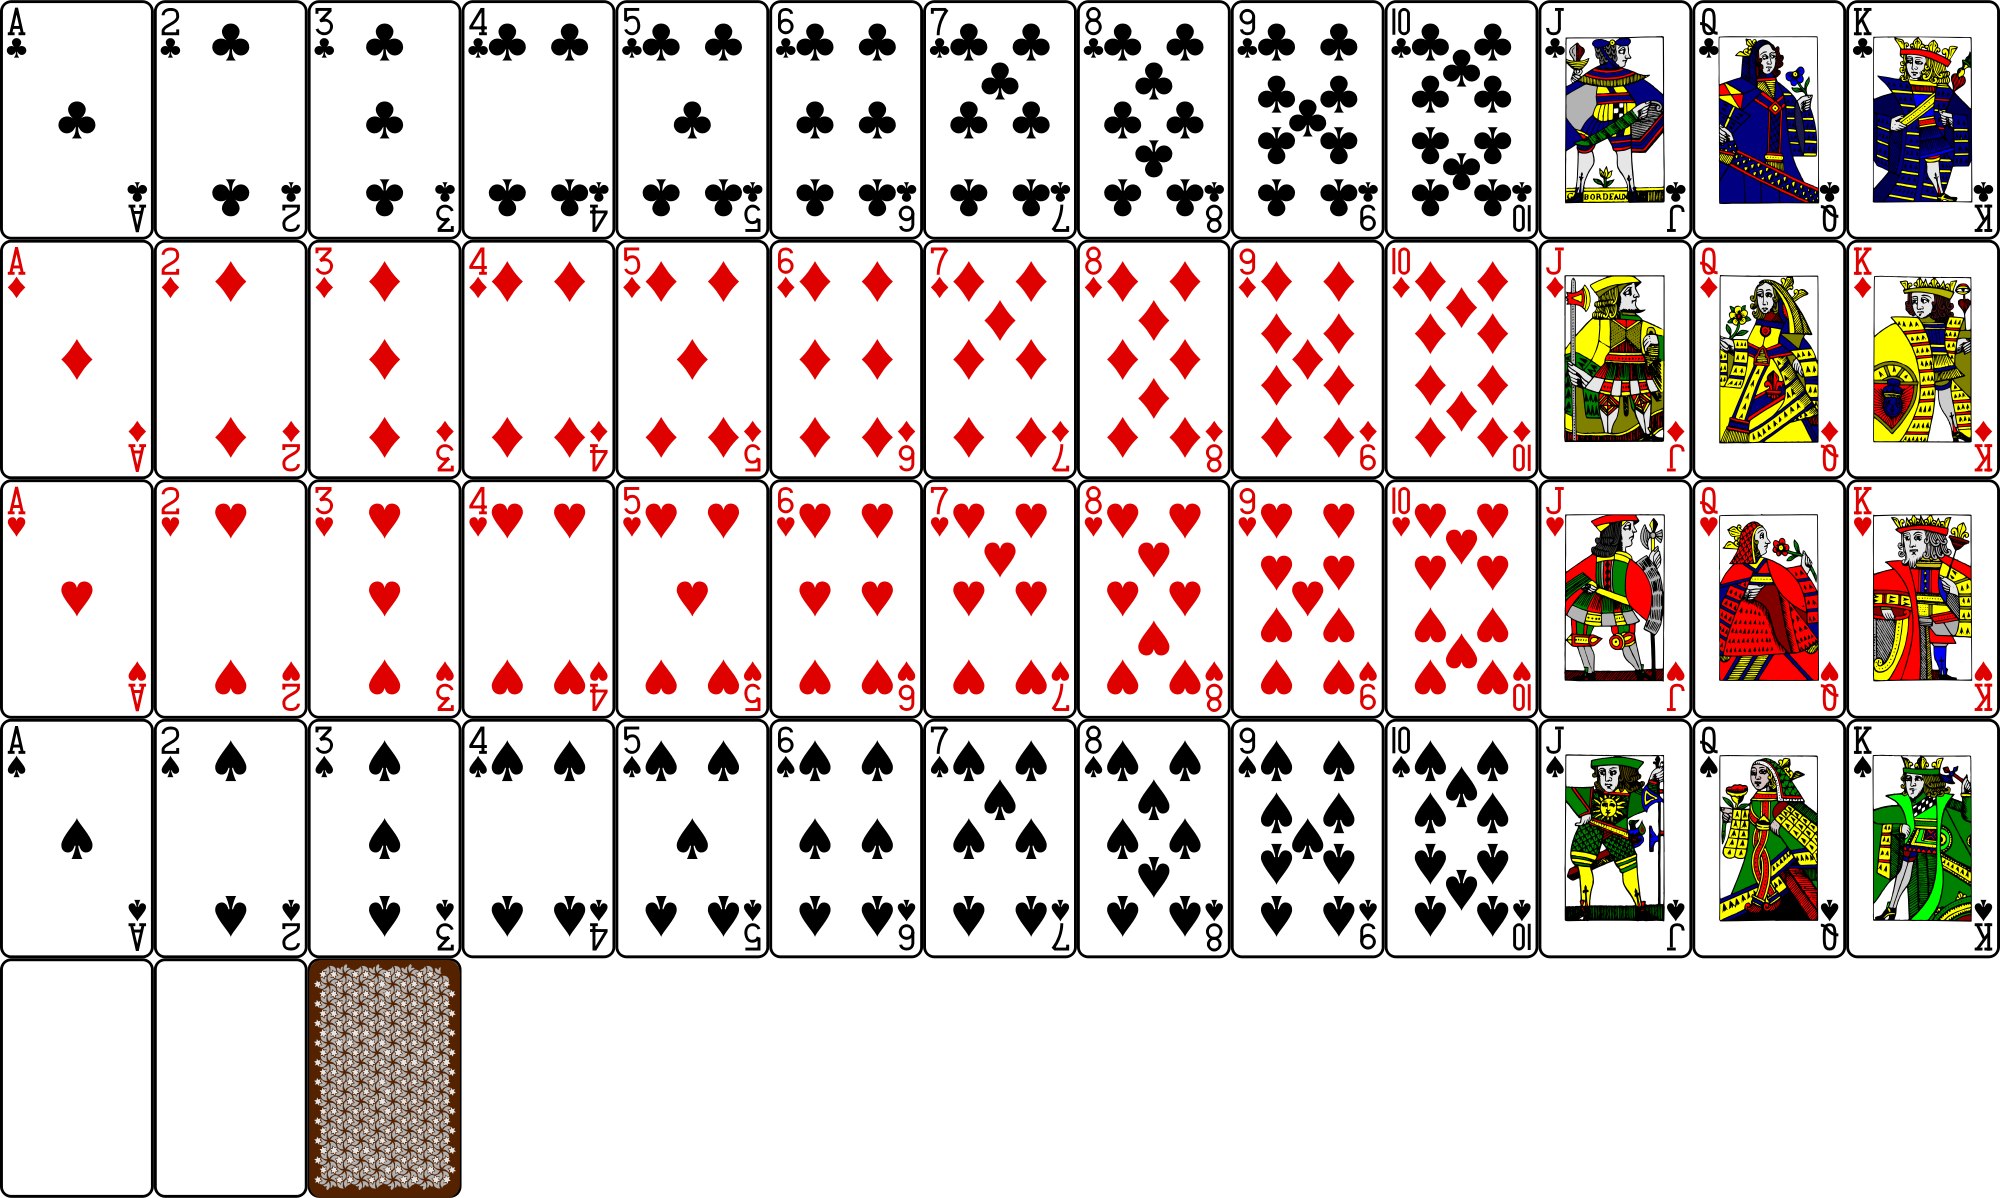
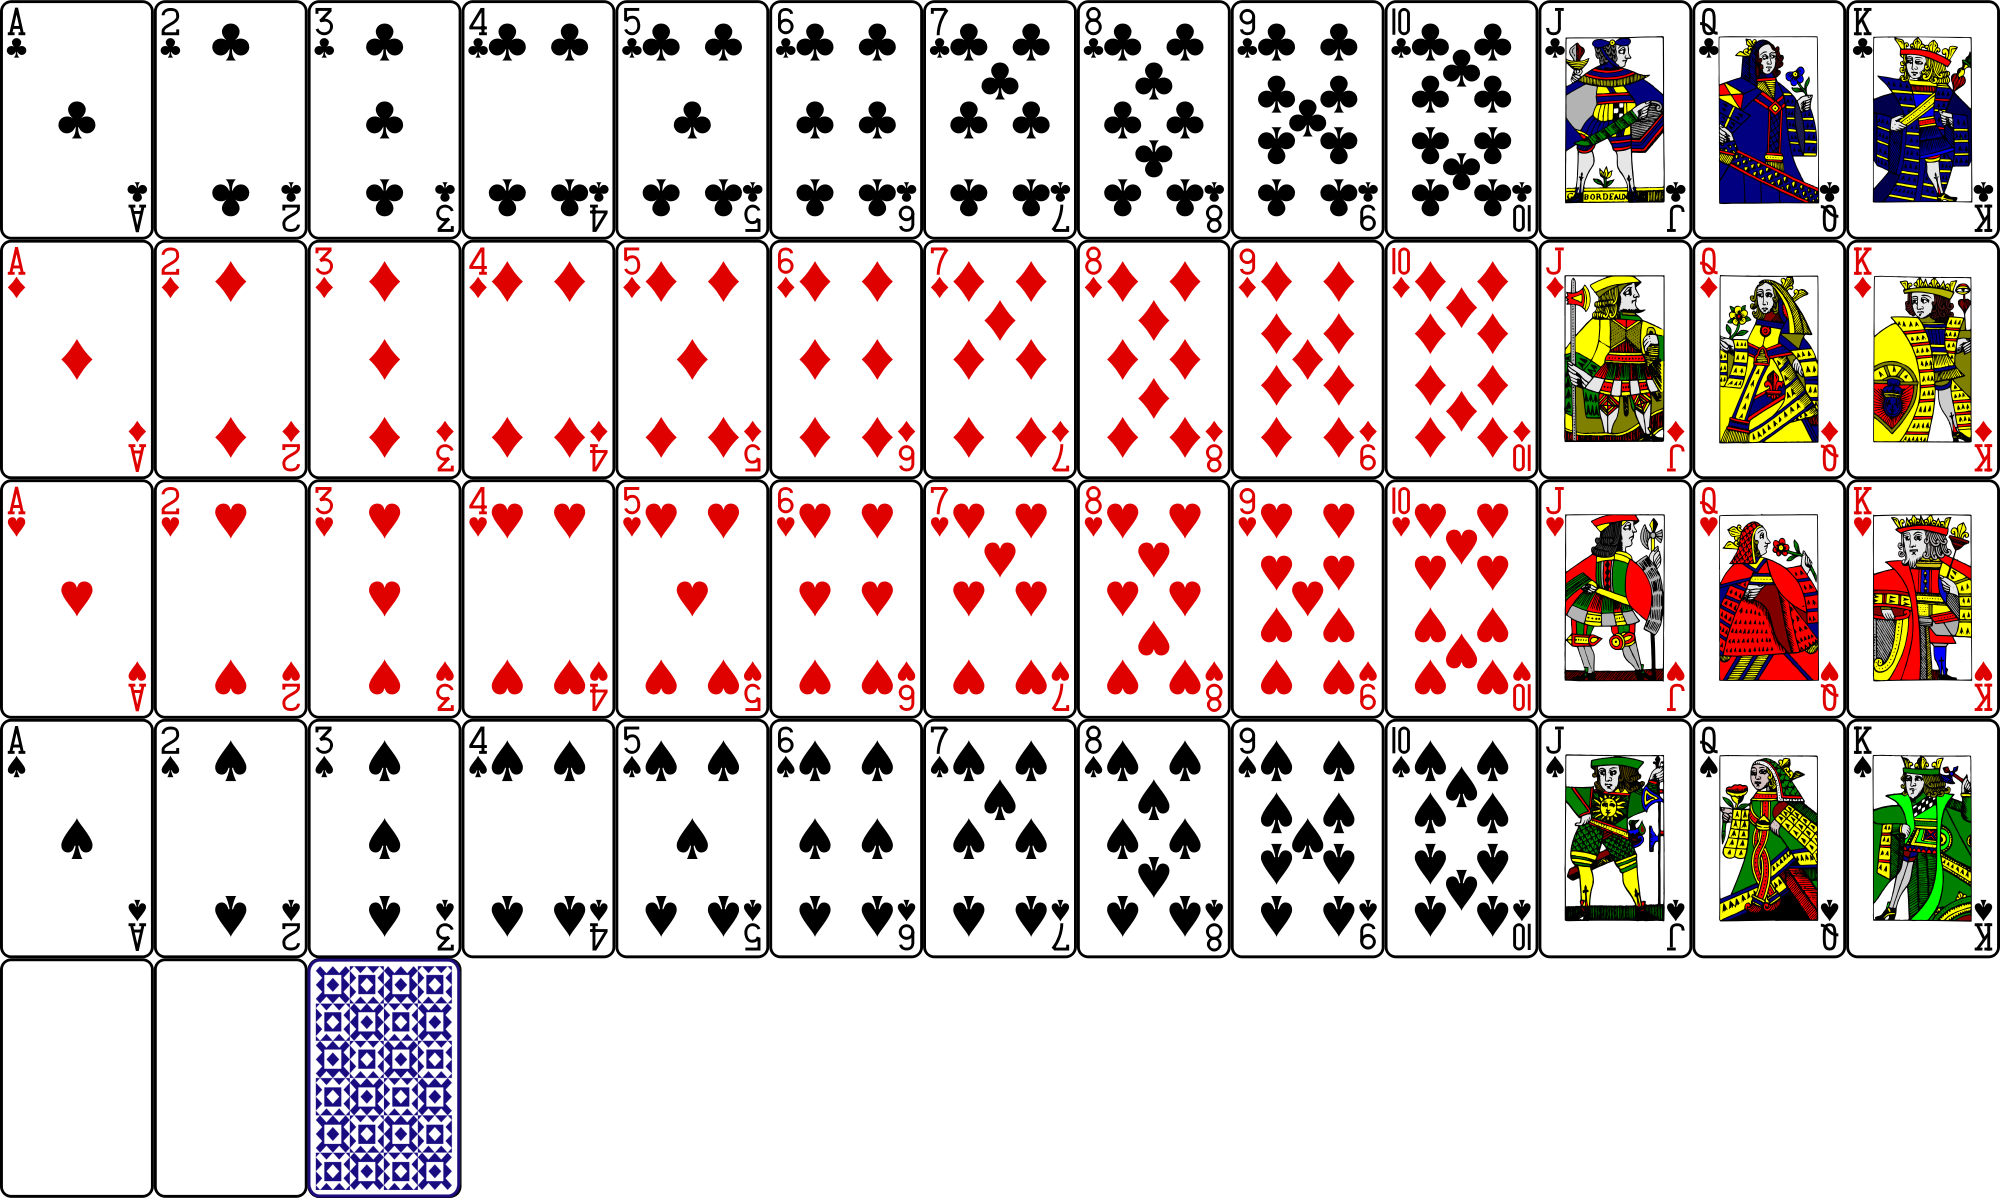
Make Cards smaller

Changed region(s): [[0.155, 0.7721, 0.248, 1.0]]

diff --git a/SheddingCardGames/SheddingCardGame.UI/Config.cs b/SheddingCardGames/SheddingCardGame.UI/Config.cs
@@ -6,8 +6,10 @@ namespace SheddingCardGame.UI
     {
         public int ScreenHeight { get; set; } = 800;
         public int ScreenWidth { get; set; } = 1200;
-        public int CardHeight { get; set; } = 240;
-        public int CardWidth { get; set; } = 154;
+        public int SpriteSheetCardWidth { get; set; } = 154;
+        public int SpriteSheetCardHeight { get; set; } = 240;
+        public int CardWidth { get; set; } = 123;
+        public int CardHeight { get; set; } = 192;
 
         public int LabelHeight { get; set; } = 35;
 
@@ -24,13 +26,15 @@ namespace SheddingCardGame.UI
 
         public Point ScreenCentre => new Point(ScreenWidth / 2, ScreenHeight / 2);
 
-        public Rectangle TopPlayerInfoSection => new Rectangle(0, 10, ScreenWidth, LabelHeight);
-        public Rectangle TopPlayerHandSection => new Rectangle(0, TopPlayerInfoSection.Bottom, ScreenWidth, CardHeight);
-        public Rectangle TableSection => new Rectangle(0, TopPlayerHandSection.Bottom, ScreenWidth, CardHeight);
-        public Rectangle BottomPlayerHandSection => new Rectangle(0, TableSection.Bottom, ScreenWidth, CardHeight);
-        public Rectangle BottomPlayerInfoSection => new Rectangle(0, BottomPlayerHandSection.Bottom, ScreenWidth, LabelHeight);
+        public int Margin { get; set; } = 10;
 
-        public Rectangle InfoSection => new Rectangle(360, TableSection.Y + LabelHeight, TableSection.Width - 360 - 500, TableSection.Height);
+        public Rectangle TopPlayerInfoSection => new Rectangle(Margin, Margin, ScreenWidth, LabelHeight);
+        public Rectangle TopPlayerHandSection => new Rectangle(Margin, TopPlayerInfoSection.Bottom, ScreenWidth, CardHeight);
+        public Rectangle TableSection => new Rectangle(Margin, TopPlayerHandSection.Bottom, ScreenWidth, CardHeight);
+        public Rectangle BottomPlayerHandSection => new Rectangle(Margin, TableSection.Bottom, ScreenWidth, CardHeight);
+        public Rectangle BottomPlayerInfoSection => new Rectangle(Margin, BottomPlayerHandSection.Bottom + Margin, ScreenWidth, LabelHeight);
+
+        public Rectangle InfoSection => new Rectangle(360, TableSection.Y + Margin, TableSection.Width - 360 - 500, TableSection.Height);
         public Rectangle ActionsSection => new Rectangle(InfoSection.Right, TableSection.Y + LabelHeight, TableSection.Width - 360 - 500, TableSection.Height);
 
         public Rectangle StockPileSection => new Rectangle(TableSection.X, TableSection.Y, CardWidth, CardHeight);

diff --git a/SheddingCardGames/SheddingCardGame.UI/CardComponent.cs b/SheddingCardGames/SheddingCardGame.UI/CardComponent.cs
@@ -67,17 +67,18 @@ namespace SheddingCardGame.UI
         
         public async ValueTask Render(Canvas2DContext context)
         {
+            var frameCoords = GetFrameCoords(Card);
+            var frameX = frameCoords.X * config.SpriteSheetCardWidth;
+            var frameY = frameCoords.Y * config.SpriteSheetCardHeight;
+
             var spriteX = GetX();
             var spriteY = GetY();
-            var frameWidth = Sprite.Size.Width;
-            var frameHeight = Sprite.Size.Height;
-            var frameCoords = GetFrameCoords(Card);
-            var frameX = frameCoords.X * frameWidth;
-            var frameY = frameCoords.Y * frameHeight;
+            var spriteWidth = Sprite.Size.Width;
+            var spriteHeight = Sprite.Size.Height;
 
             await context.DrawImageAsync(Sprite.SpriteSheet,
-                frameX, frameY, frameWidth, frameHeight,
-                spriteX, spriteY, frameWidth, frameHeight
+                frameX, frameY, config.SpriteSheetCardWidth, config.SpriteSheetCardHeight,
+                spriteX, spriteY, spriteWidth, spriteHeight
             );
 
             if (isActive)
